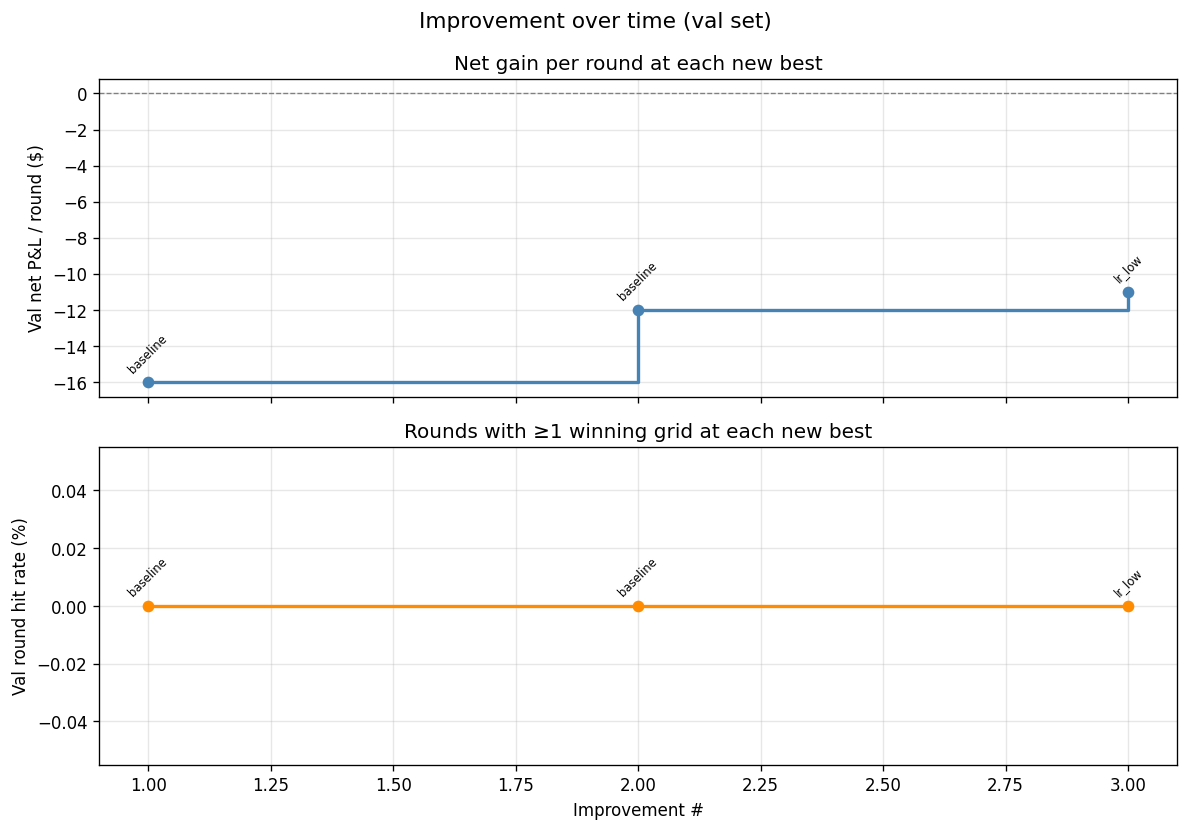
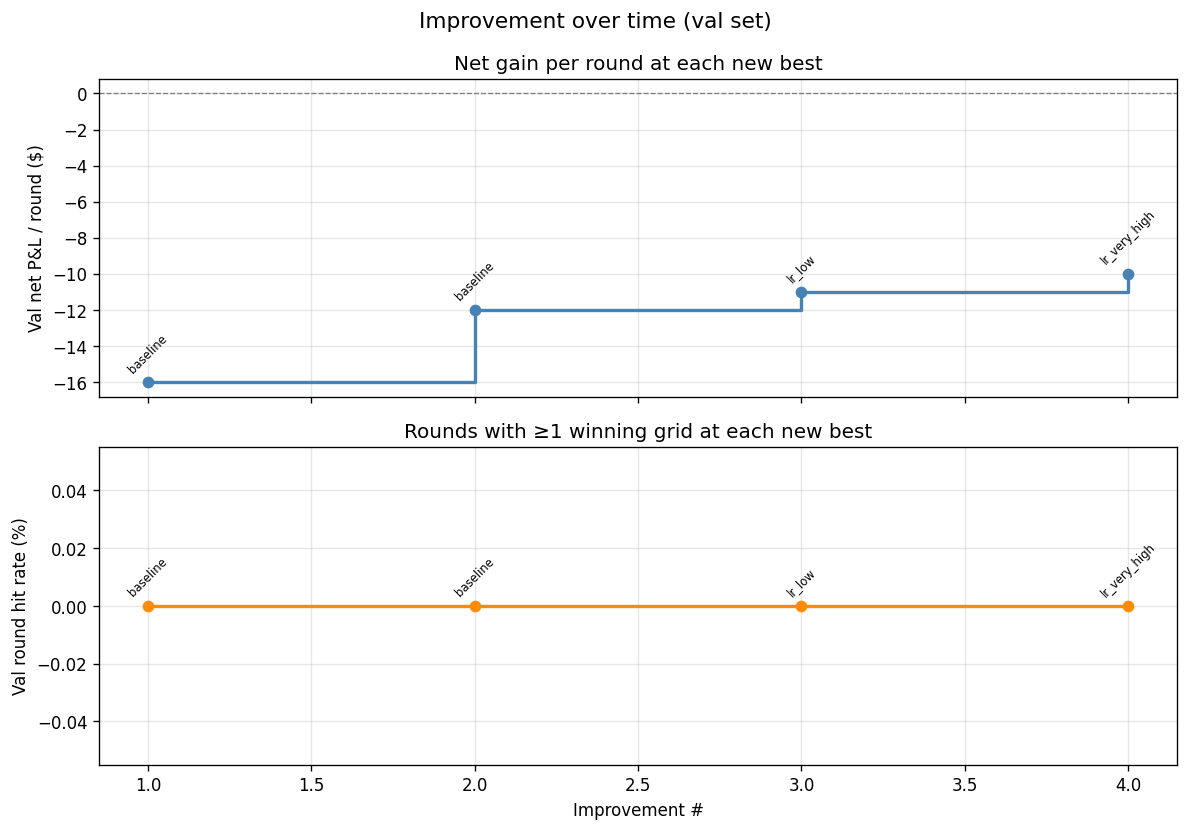
improve: [k8] score=-8.00 val_net=-8.00/round val_hit=0%
Keywords: linear, k=8
Train=8  Val=2  Test=2 rounds

diff --git a/datasets/loto-foot-8-2026-Q1/README.md b/datasets/loto-foot-8-2026-Q1/README.md
@@ -21,8 +21,12 @@
 <!-- LEADERBOARD_START -->
 | Rank | Trial | Strategy | Keywords | Val Net/Round | Val Hit% | Test Net/Round | Test Hit% | Commit |
 |------|-------|----------|----------|--------------|----------|----------------|-----------|--------|
-| 1 | 4 | `lr_low` | linear, lr=0.001 | $-11.00 | 0.0% | $-6.00 | 0.0% | cb9baf2 |
-| 2 | 2 | `baseline` | linear, lr=0.005, entropy=0.05, k=20, ep=6k | $-12.00 | 0.0% | $-12.00 | 0.0% | 61a9605 |
-| 3 | 3 | `lr_high` | linear, lr=0.02 | $-14.00 | 0.0% | $-14.00 | 0.0% | — |
-| 4 | 1 | `baseline` | linear, lr=0.005, entropy=0.05, k=20, ep=6k | $-16.00 | 0.0% | $-16.00 | 0.0% | 8140806 |
+| 1 | 5 | `lr_very_high` | linear, lr=0.05 | $-10.00 | 0.0% | $-12.00 | 0.0% | 7732256 |
+| 2 | 7 | `entropy_high` | linear, entropy=0.2 | $-10.50 | 0.0% | $-14.00 | 0.0% | — |
+| 3 | 4 | `lr_low` | linear, lr=0.001 | $-11.00 | 0.0% | $-6.00 | 0.0% | cb9baf2 |
+| 4 | 2 | `baseline` | linear, lr=0.005, entropy=0.05, k=20, ep=6k | $-12.00 | 0.0% | $-12.00 | 0.0% | 61a9605 |
+| 5 | 3 | `lr_high` | linear, lr=0.02 | $-14.00 | 0.0% | $-14.00 | 0.0% | — |
+| 6 | 8 | `entropy_zero` | linear, entropy=0 | $-15.00 | 0.0% | $-17.00 | 0.0% | — |
+| 7 | 1 | `baseline` | linear, lr=0.005, entropy=0.05, k=20, ep=6k | $-16.00 | 0.0% | $-16.00 | 0.0% | 8140806 |
+| 8 | 6 | `entropy_low` | linear, entropy=0.01 | $-16.00 | 0.0% | $-16.00 | 0.0% | — |
 <!-- LEADERBOARD_END -->
